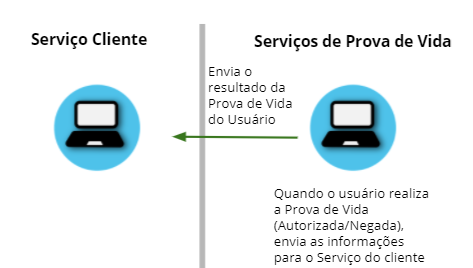
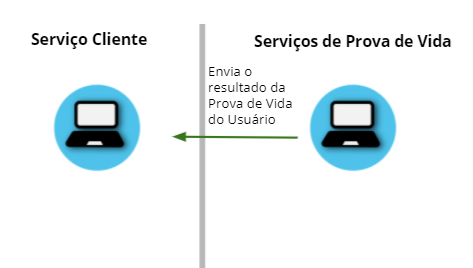
Ajustes funcionamento e info técnicas

Changed region(s): [[0.5624, 0.6866, 0.9175, 0.9851]]

diff --git a/iniciarintegracao.rst b/iniciarintegracao.rst
@@ -80,79 +80,12 @@ Response: **200**
 	} 
 
 
+Transação da Prova de Vida
+---------------------------
 
-Transação simplificada da Prova de vida
-----------------------------------------
+A Transação da Prova de Vida é com suporte a resposta automática utilizando selo biométrico GovBr. A resposta da requisição contém informações sobre validação facial feita pelo usuário em um momento anterior à solicitação. Portanto, a solicitação de Prova de vida pode ser **autorizada** automaticamente. 
 
-A Transação é **sem** suporte a resposta automática utilizando selo biométrico GovBr. Ou seja, não apresenta na resposta informações sobre validação facial feita pelo usuário em um momento anterior à solicitação. Portanto, a solicitação de Prova de vida **não** pode ser autorizada automaticamente. 
-
-A Transação cria um pedido de Prova de vida para o cidadão (CPF). O Cidadão é informado via *push notification* no aplicativo "Meu Gov.Br". Tem como retorno apenas o *UUID* da transação. 
-
-A autorização do usuário pode ser dada por confirmação ou por biometria facial no app "Meu Gov.Br".
-
-Parâmetros do Header para POST https://h.meugov.estaleiro.serpro.gov.br/api/vbeta1/transacoes
-
-=================  ======================================================================
-**Variável**  	   **Descrição**
------------------  ----------------------------------------------------------------------
-**Content-Type**   Tipo do conteúdo da requisição que está sendo enviada. Nesse caso estamos enviando como um *application/json*
-**Authorization**  Palavra **Bearer** e o *access_token* da requisição POST do https://h.meugov.estaleiro.serpro.gov.br/auth/oauth/token?grant_type=client_credentials
-=================  ======================================================================
-
-Parâmetros do Body para POST https://h.meugov.estaleiro.serpro.gov.br/api/vbeta1/transacoes
-
-.. code-block:: JSON
-
-	{ 
-	"solicitante": {
-          "cnpj": "(CNPJ do Solicitante.)",
-          "nome": "(Orgão Solicitante.)",
-          "servico": "(Nome do Serviço cliente.)"
-         },
-        "cpf": "(CPF do usuário que realizará a Prova de Vida.)",
-        "motivo": "(Motivo da Prova de Vida. Exemplo: Obter benefício previdenciário)",
-        "tipo": "(Tipo da solicitação. Padrão: 'B')",
-        "expiracao_em": "(Tempo de vida da transação em minutos)",
-        "mensagem_falha": "(Mensagem apresentada ao usuário no caso de falha na Prova de vida)",
-        "mensagem_sucesso": "(Mensagem apresentada ao usuário no caso de sucesso na Prova de vida)"
-	} 
-
-
-Exemplo de *body*:
-
-.. code-block:: JSON
-
-	{ 
-	"solicitante": {
-          "cnpj": "33.683.111/0001-07",
-          "nome": "Secretaria de Governo Digital",
-          "servico": "AppGovBr"
-         },
-        "cpf": "01534562567",
-        "motivo": "prova de vida para obtenção de selo",
-        "tipo": "B",
-        "expiracao_em": "120",
-        "mensagem_falha": "Não foi possível confirmar a prova de vida, volte ao sistema XYZ para obter mais informações",
-        "mensagem_sucesso": "Sua prova de vida foi realizada com sucesso, volte ao sistema XYZ para continuar o processo de autorização"
-	} 
-
-
-Ao chamar o serviço, o pedido de autorização de transação é criado e enviado para o usuário autorizar usando o App "Meu GovBr". O serviço retornará, em caso de sucesso, o código que identifica unicamente a transação (**UUID**), conforme exemplo:
-
-Response: **201**
-
-**Body**
-
-0a4f7059-78b3-1b16-8179-56713d547f8a
-
-
-Transação com verificação do selo de Biometria Facial
------------------------------------------------------
-
-A Transação é com suporte a resposta automática utilizando selo biométrico GovBr. A resposta da requisição contém informações sobre validação facial feita pelo usuário em um momento anterior à solicitação. Portanto, a solicitação de Prova de vida pode ser **autorizada** automaticamente. 
-
-Diferente da transação simplicada, a requisição **com verificação** do selo possui o parâmetro
-"**selogovbr_reuso_em**" no *body*. O valor desse parâmetro é o intervalo de tempo em minutos anterior a data da transação. A Prova de vida será autorizada **automaticamente** caso o usuário tiver feito a validação facial dentro desse intervalo.
+A requisição possui o parâmetro "**selogovbr_reuso_em**" no *body*. O valor desse parâmetro é o intervalo de tempo em minutos anterior a data da transação. A Prova de vida será autorizada **automaticamente** caso o usuário tiver feito a validação facial dentro desse intervalo.
 
 A Transação cria um pedido de Prova de vida para o cidadão (CPF). O Cidadão é informado via *push notification* no aplicativo "Meu Gov.Br". 
 
@@ -208,8 +141,8 @@ Exemplo de *body*:
         "categoria": "PV"
   } 
 
-Resultados esperados do Acesso à Transação com verificação do selo
-------------------------------------------------------------------
+Resultados esperados do Acesso à Transação da Prova de Vida
+-----------------------------------------------------------
 
 A transação retornará, em caso de autorização automática com selo, no formato JSON, as informações conforme exemplo:
 
@@ -237,12 +170,12 @@ Response: **201**
        "motivo": "solicitação de prova de vida para liberação de benefício",
        "tipo": "B",
        "criado_em": "2021-05-10T14:14:38.083677-03:00",
-       "expiracao_em": "2021-05-10T14:14:38.083677-03:00",
+       "expiracao_em": "2021-05-10T16:14:38.083677-03:00",
        "selogovbr": {
     
-       "reusar_apartir": "2019-06-16T03:35.083677-03:00",
+       "reusar_apartir": "2021-04-10T14:38.083677-03:00",
        "disponivel": true,
-       "data": "2019-02-15T15:34:51-03:00",
+       "data": "2021-03-15T15:34:51-03:00",
        "usado": false
     },
        "categoria": "PV"
@@ -253,10 +186,9 @@ No exemplo acima, como a transação **não** foi autorizada automaticamente, o 
 Obter dados usando id das Transações
 ------------------------------------
 
-É possível fazer requisição para obter dados das Transações da Prova de vida usando o **id** (*UUID*) retornado pelos serviços:
+É possível fazer requisição para obter dados das Transações da Prova de vida usando o **id** (*UUID*) retornado pelo serviço:
 
--  https://h.meugov.estaleiro.serpro.gov.br/api/vbeta1/transacoes (**sem** verificação do selo)
--  https://h.meugov.estaleiro.serpro.gov.br/api/vbeta3/transacoes (com verificação do selo)
+-  https://h.meugov.estaleiro.serpro.gov.br/api/vbeta3/transacoes
 
 Para acessar o serviço que disponibiliza os dados vinculados a uma determinada transação, a aplicação cliente deverá realizar uma requisição por meio do método GET à URL:
 https://h.meugov.estaleiro.serpro.gov.br/api/vbeta3/transacoes/{idtransacao}
@@ -276,8 +208,6 @@ Parâmetros para GET https://h.meugov.estaleiro.serpro.gov.br/api/vbeta3/transac
 **Authorization**             No *header*, palavra **Bearer** e o *acess_token* da requisição POST do https://h.meugov.estaleiro.serpro.gov.br/auth/oauth/token?grant_type=client_credentials
 **idtransação**               **id** (*UUID*) da transação de prova de vida
 ============================  ======================================================================
-
-O resultado em formato JSON depende se o **id** utilizado for de uma `Transação simplificada da Prova de vida`_ ou de uma `Transação com verificação do selo de Biometria Facial`_.
 
 Exemplos de Resultado:
 
@@ -302,16 +232,16 @@ Response: **200**
        "criado_em": "2021-05-10T14:14:38.083677-03:00",
        "selogovbr": {
     
-       "reusar_apartir": "2019-06-16T03:35.083677-03:00",
+       "reusar_apartir": "2021-04-10T14:14.083677-03:00",
        "disponivel": true,
-       "data": "2021-04-23T15:34:51-03:00",
+       "data": "2021-05-23T15:34:51-03:00",
        "usado": true
     },
        "resposta": {
        "autorizado": true,
-       "data": "2021-05-10T15:37:38.083677-03:00"
+       "data": "2021-05-23T15:34:51-03:00"
       },
-     "expiracao_em": "2021-05-10T16:14:38.083677-03:00",
+     "expiracao_em": "2021-06-10T16:14:38.083677-03:00",
      "categoria": "PV"
   } 
 
@@ -335,26 +265,26 @@ Response: **200**
        "criado_em": "2021-05-10T14:14:38.083677-03:00",
        "selogovbr": {
     
-       "reusar_apartir": "2019-06-16T03:35.083677-03:00",
+       "reusar_apartir": "2021-04-10T14:14.083677-03:00",
        "disponivel": true,
-       "data": "2021-04-23T15:34:51-03:00",
-       "usado": true
+       "data": "2021-03-23T15:34:51-03:00",
+       "usado": false
     },
        "resposta": {
        "autorizado": false,
        "data": "2021-05-10T15:37:38.083677-03:00",
        "motivo_negacao": 1
       },
-    "expiracao_em": "2021-05-10T16:14:38.083677-03:00",
+    "expiracao_em": "2021-06-10T14:14:38.083677-03:00",
     "categoria": "PV"
   }
 
-O valor do atributo "motivo_negacao" é um número de 1 a 4. Abaixo estão os motivos de cada número: 
+O valor do atributo "**motivo_negacao**" é um número de 1 a 4. Abaixo estão os motivos de cada número: 
 
-1 - Usuário escolheu não autorizar;
-2 - Falha na validação biometria Facial;
-3 - Falha na validação dados biográficos;
-4 - Falha na validação de dados biometricos e biográficos.
+1. Usuário escolheu não autorizar;
+2. Falha na validação biometria Facial;
+3. Falha na validação dados biográficos;
+4. Falha na validação de dados biometricos e biográficos.
 
 Enviar mensagens para o usuário
 -------------------------------
@@ -459,8 +389,6 @@ Exemplos de códigos HTTP de erro:
 
 .. |site externo| image:: _images/site-ext.gif
 .. _`codificador para Base64`: https://www.base64decode.org/
-.. _`Transação simplificada da Prova de vida`: iniciarintegracao.html#transacao-simplificada-da-prova-de-vida
-.. _`Transação com verificação do selo de Biometria Facial`: iniciarintegracao.html#transacao-com-verificacao-do-selo-de-biometria-facial
 .. _`OAuth 2.0`: https://oauth.net/2/
 .. _`Login Único`: https://manual-roteiro-integracao-login-unico.servicos.gov.br/pt/stable/index.html
 

diff --git a/funcionamento.rst b/funcionamento.rst
@@ -1,8 +1,37 @@
 Funcionamento da Prova de Vida
 ===============================
 
-Abaixo está uma descrição geral do procedimento da Prova de Vida.
+Transação autorizada automaticamente
+++++++++++++++++++++++++++++++++++++++++
 
+Abaixo está uma descrição geral do procedimento da Prova de Vida autorizada automaticamente.
+
+
+1. Aplicação **Cliente** envia transação para verificar Validação facial feita pelo usuário a partir de uma data definida
+
+.. figure:: _images/clienteSolicitacaoSelo.png
+   :align: center
+   :alt: 
+
+2. Aplicação **Cliente** recebe os dados da transação autorizada automaticamente. **Usuário**, abrindo as notificações do aplicativo "Meu Gov.Br", visualiza os dados da Prova de Vida **autorizada**
+
+.. figure:: _images/resultadoPvSelo.png
+   :align: center
+   :alt: 
+
+.. figure:: _images/app.png
+   :align: center
+   :alt: 
+
+.. figure:: _images/rsz_apppv03.jpg
+   :align: center
+   :alt: 
+
+
+Transação **não** autorizada automaticamente
+++++++++++++++++++++++++++++++++++++++++++++++++
+
+Abaixo está uma descrição geral do procedimento da Prova de Vida **não** autorizada automaticamente. Quando a Aplicação **Cliente** não consegue aproveitar validação facial feita pelo usuário anteriormente.
 
 1. Aplicação **Cliente** envia transação solicitando a Prova de Vida
 
@@ -10,40 +39,41 @@ Abaixo está uma descrição geral do procedimento da Prova de Vida.
    :align: center
    :alt: 
 
-2. **Usuário**, abrindo as notificações do aplicativo "Meu Gov.Br", recebe os dados da solicitação, tais como: **Nome da aplicação** que solicitou e **Data da solicitação**. 
+2. Aplicação **Cliente** recebe resposta da solicitação, indicando que **não** foi feita validação facial
 
-3. **Usuário** autoriza solicitação de Prova de Vida   
+.. figure:: _images/resultadoPvNSelo.png
+    :align: center
+    :alt:
 
-.. figure:: _images/app.png
-   :align: center
-   :alt: 
+3. **Usuário**, abrindo as notificações do aplicativo “Meu Gov.Br”, recebe os dados da solicitação, a qual aparece como **pendente**
 
-.. figure:: _images/autorizacaoApp.png
-   :align: center
-   :alt: 
+4. **Usuário** autoriza solicitação de Prova de Vida
 
-4. **Usuário**, por meio do aplicativo, realiza a Validação facial. A Validação verifica se quem está realizando o procedimento é uma pessoa viva. Em seguida, é validado se quem está realizando o procedimento corresponde a biometria facial armazenada nas bases do TSE ou CNH
+.. figure:: _images/rsz_apppv05.jpg
+    :align: center
+    :alt:
+
+
+5. **Usuário**, por meio do aplicativo, realiza a Validação facial. A Validação verifica se quem está realizando o procedimento é uma pessoa viva. Em seguida, é validado se quem está realizando o procedimento corresponde a biometria facial armazenada nas bases do TSE ou CNH
 
 .. figure:: _images/validacaoApp.png
    :align: center
    :alt: 
 	
-5. Aplicação **Cliente** solicita informação sobre a Prova de Vida
+6. Aplicação **Cliente** solicita informação sobre a Prova de Vida enviada
 
 .. figure:: _images/solicitacaoResPv.png
     :align: center
     :alt:
 
-6. Aplicação **Cliente** recebe resposta da solicitação	
+7. Aplicação **Cliente** recebe resposta da solicitação	
 
 .. figure:: _images/resultadoPv.png
     :align: center
     :alt:
 
-**Observações:**
+**Observação:**
 
-- Para que a resposta da transação (serviço) realizada pela aplicação **cliente** mostre se o **usuário** autorizou ou não a Prova de Vida, o **usuário** precisa responder a solicitação no Aplicativo.
-
-- As transações enviadas pela aplicação **cliente** também podem retornar informações de validação facial realizada anteriormente (**Selo Biométrico**). Dessa forma, a solicitação da prova de vida pode ser autorizada automaticamente, sem a necessidade do usuário fazer a validação facial após a solicitação. Nesse caso, a aplicação **cliente** cria a transação com verificação de **selo de Biometria Facial**. 
+- Quando a transação **não** é autorizada automaticamente, o **usuário** precisa responder a solicitação de Prova de Vida no Aplicativo. Dessa Forma, a aplicação **cliente** tem a resposta mostrando se o **usuário** autorizou ou não a Prova de Vida.
 
 Na próxima seção, as formas de chamadas e parâmetros das transações são apresentados mais detalhadamente.
